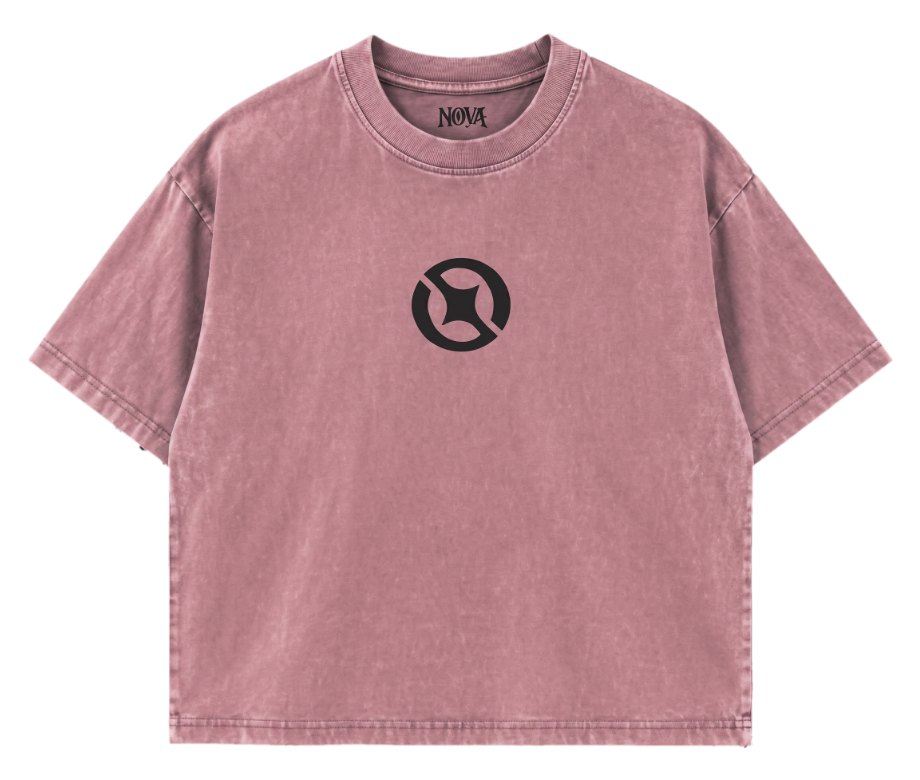
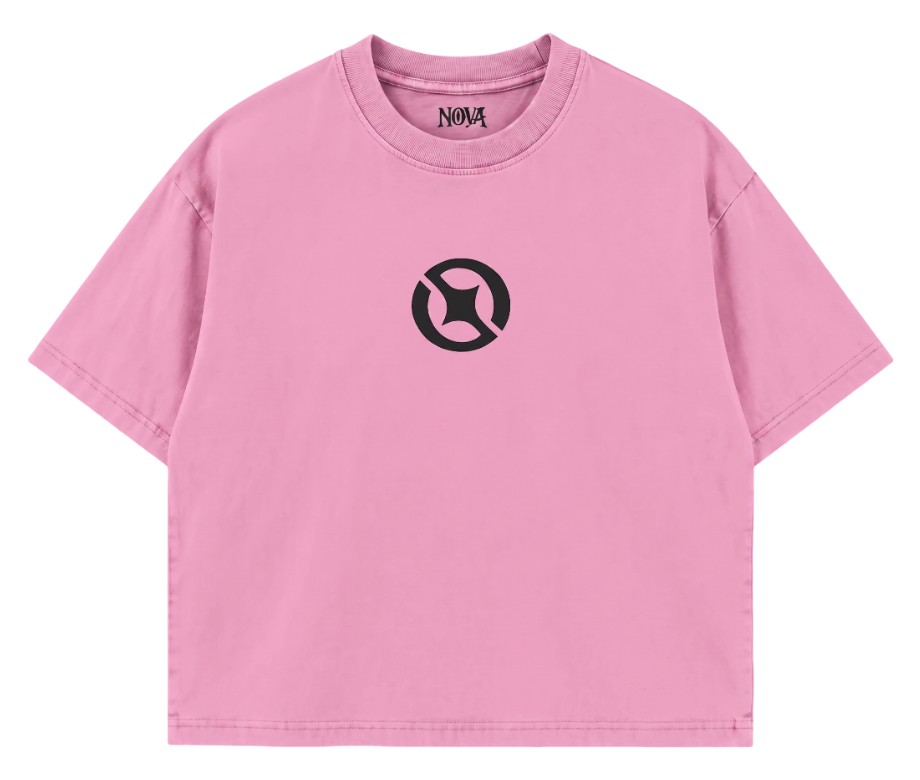
La camiseta pasa a gris, fotos nuevas y las cuatro prendas del Drop 02
El color negro ya no existe en la web: la camiseta es gris. Cambia el
nombre en la ficha, el botón del selector con su círculo sacado de la
propia foto, los textos alternativos, la opción de la caja de la preventa
y la lista que valida el pago en el servidor.

Fotos nuevas de las dos camisetas, recortadas sobre blanco a 920x780 y a
la misma escala que las de antes, para que el visor no dé saltos al girar
ni al cambiar de color. La espalda gris sale de la captura de móvil: se
recorta la banda de la foto y con ella se va la marca de agua, que caía en
las barras negras.

El Drop 02 deja de ser sólo la sudadera. Debajo van la camisa, los
tirantes, los vaqueros y el short, en una rejilla de dos columnas en el
móvil y cuatro en el escritorio. Las ocho fotos van sobre el mismo negro
exacto de la sudadera, así que no se recorta ningún rectángulo contra el
fondo de la sección.

Y fuera los rótulos de Delante y Detrás de las seis prendas: el reverso se
ve girándolas, no hace falta anunciarlo. La cara sigue diciéndose en el
aria-label del visor, que es donde hace falta.

diff --git a/index.html b/index.html
@@ -409,6 +409,23 @@ h1.titulo{margin:0;line-height:0}
 .oscuro .ficha{border-top-color:var(--noche-linea);color:var(--noche-texto)}
 .oscuro .ficha i{color:var(--acento-noche)}
 
+/* ---------- el resto de prendas del Drop 02 ----------
+   Una rejilla que se acomoda sola: cuatro en fila cuando cabe, dos cuando
+   no. Cada una gira igual que la sudadera, pero sin flechas: la tarjeta es
+   pequeña y el propio recorte ya invita a pulsarla. */
+.prendas{
+    display:grid;grid-template-columns:repeat(2,1fr);
+    gap:clamp(14px,3.2vw,30px);
+    max-width:1000px;margin:clamp(40px,7vh,68px) auto 0;
+}
+@media(min-width:760px){.prendas{grid-template-columns:repeat(4,1fr)}}
+.prenda{margin:0}
+.prenda .visor{max-width:none;aspect-ratio:1}
+.prenda .ficha{
+    max-width:none;margin-top:11px;padding-top:10px;
+    gap:8px;font-size:9px;letter-spacing:.16em;
+}
+
 /* ---------- las coordenadas ---------- */
 .coords{padding-top:clamp(8px,2vh,20px)}
 .coord-foto{
@@ -514,10 +531,10 @@ footer{
             </button>
 
             <button type="button" class="visor" id="visor">
-                <img class="foto activa" data-color="negro" data-cara="delante" src="negro-delante.jpg"
-                     width="920" height="780" alt="Camiseta NOVA Supply Clothing negra por delante, con el emblema en el pecho">
-                <img class="foto" data-color="negro" data-cara="detras" src="negro-detras.jpg"
-                     width="920" height="780" alt="Camiseta NOVA Supply Clothing negra por detrás, con NOVA en grande">
+                <img class="foto activa" data-color="gris" data-cara="delante" src="gris-delante.jpg"
+                     width="920" height="780" alt="Camiseta NOVA Supply Clothing gris por delante, con el emblema en el pecho">
+                <img class="foto" data-color="gris" data-cara="detras" src="gris-detras.jpg"
+                     width="920" height="780" alt="Camiseta NOVA Supply Clothing gris por detrás, con NOVA en grande">
                 <img class="foto" data-color="rosa" data-cara="delante" src="rosa-delante.jpg"
                      width="920" height="780" alt="Camiseta NOVA Supply Clothing rosa por delante, con el emblema en el pecho">
                 <img class="foto" data-color="rosa" data-cara="detras" src="rosa-detras.jpg"
@@ -529,14 +546,14 @@ footer{
             </button>
         </div>
 
-        <p class="ficha" aria-live="polite"><span id="nombre-color">Negro lavado</span><i id="nombre-cara">Delante</i></p>
+        <p class="ficha" aria-live="polite"><span id="nombre-color">Gris lavado</span></p>
 
         <div class="selector" id="colores" role="group" aria-label="Color de la camiseta">
-            <button type="button" class="swatch" data-color="negro" aria-pressed="true">
-                <span class="punto" style="--c:#2b2b2d"></span>Negro
+            <button type="button" class="swatch" data-color="gris" aria-pressed="true">
+                <span class="punto" style="--c:#7b7676"></span>Gris
             </button>
             <button type="button" class="swatch" data-color="rosa" aria-pressed="false">
-                <span class="punto" style="--c:#c98f95"></span>Rosa
+                <span class="punto" style="--c:#e79aba"></span>Rosa
             </button>
         </div>
     </section>
@@ -570,8 +587,8 @@ footer{
                 <fieldset>
                     <legend>Color</legend>
                     <div class="opciones">
-                        <label class="opcion"><input type="radio" name="color" value="negro" required><span><i class="punto" style="--c:#2b2b2d"></i>Negro</span></label>
-                        <label class="opcion"><input type="radio" name="color" value="rosa"><span><i class="punto" style="--c:#c98f95"></i>Rosa</span></label>
+                        <label class="opcion"><input type="radio" name="color" value="gris" required><span><i class="punto" style="--c:#7b7676"></i>Gris</span></label>
+                        <label class="opcion"><input type="radio" name="color" value="rosa"><span><i class="punto" style="--c:#e79aba"></i>Rosa</span></label>
                     </div>
                 </fieldset>
 
@@ -626,7 +643,51 @@ footer{
         </button>
     </div>
 
-    <p class="ficha" aria-live="polite"><span>Sudadera</span><i id="cara-sudadera">Delante</i></p>
+    <p class="ficha"><span>Sudadera</span></p>
+
+    <!-- El resto del drop. Cada prenda es el mismo visor de siempre, sin
+         flechas: se le da la vuelta pulsando encima (o pasando el ratón). -->
+    <div class="prendas">
+        <article class="prenda" id="p-camisa">
+            <button type="button" class="visor">
+                <img class="foto activa" data-cara="delante" src="d2-camisa-delante.jpg" width="560" height="560" loading="lazy"
+                     alt="Camisa de NOVA Supply Clothing, camisa de manga corta gris con el emblema en el pecho">
+                <img class="foto" data-cara="detras" src="d2-camisa-detras.jpg" width="560" height="560" loading="lazy"
+                     alt="Camisa de NOVA Supply Clothing, camisa de manga corta gris con NOVA en grande en la espalda">
+            </button>
+            <p class="ficha"><span>Camisa</span></p>
+        </article>
+
+        <article class="prenda" id="p-tirantes">
+            <button type="button" class="visor">
+                <img class="foto activa" data-cara="delante" src="d2-tirantes-delante.jpg" width="560" height="560" loading="lazy"
+                     alt="Camiseta de tirantes de NOVA Supply Clothing, camiseta de tirantes blanca con el emblema en el pecho">
+                <img class="foto" data-cara="detras" src="d2-tirantes-detras.jpg" width="560" height="560" loading="lazy"
+                     alt="Camiseta de tirantes de NOVA Supply Clothing, camiseta de tirantes blanca lisa por detrás">
+            </button>
+            <p class="ficha"><span>Tirantes</span></p>
+        </article>
+
+        <article class="prenda" id="p-vaqueros">
+            <button type="button" class="visor">
+                <img class="foto activa" data-cara="delante" src="d2-vaqueros-delante.jpg" width="560" height="560" loading="lazy"
+                     alt="Vaqueros cortos de NOVA Supply Clothing, pantalón vaquero corto claro por delante">
+                <img class="foto" data-cara="detras" src="d2-vaqueros-detras.jpg" width="560" height="560" loading="lazy"
+                     alt="Vaqueros cortos de NOVA Supply Clothing, pantalón vaquero corto claro con el emblema en el bolsillo">
+            </button>
+            <p class="ficha"><span>Vaqueros</span></p>
+        </article>
+
+        <article class="prenda" id="p-short">
+            <button type="button" class="visor">
+                <img class="foto activa" data-cara="delante" src="d2-short-delante.jpg" width="560" height="560" loading="lazy"
+                     alt="Pantalón corto de NOVA Supply Clothing, pantalón corto beige con NOVA en la pernera">
+                <img class="foto" data-cara="detras" src="d2-short-detras.jpg" width="560" height="560" loading="lazy"
+                     alt="Pantalón corto de NOVA Supply Clothing, pantalón corto beige con el emblema en el bolsillo">
+            </button>
+            <p class="ficha"><span>Short</span></p>
+        </article>
+    </div>
 
     <div class="adentro">
         <form class="aviso" id="aviso" novalidate>
@@ -763,11 +824,15 @@ function montarVisor(cfg){
 
 montarVisor({
     caja:'camiseta', prenda:'Camiseta',
-    cara:'nombre-cara', color:'nombre-color', selector:'colores',
-    colorInicial:'negro', colores:{ negro:'Negro lavado', rosa:'Rosa lavado' }
+    color:'nombre-color', selector:'colores',
+    colorInicial:'gris', colores:{ gris:'Gris lavado', rosa:'Rosa lavado' }
 });
 
-montarVisor({ caja:'sudadera', prenda:'Sudadera', cara:'cara-sudadera' });
+montarVisor({ caja:'sudadera', prenda:'Sudadera' });
+
+[['camisa','Camisa'], ['tirantes','Camiseta de tirantes'],
+ ['vaqueros','Vaqueros cortos'], ['short','Pantalón corto']]
+.forEach(function(p){ montarVisor({ caja:'p-' + p[0], prenda:p[1] }); });
 
 /* ---------- la vuelta del pago ----------
    El botón de la caja es un enlace normal a /api/preventa, que redirige a

diff --git a/api/preventa.js b/api/preventa.js
@@ -30,11 +30,11 @@
       o a /?pago=no y la web le da el mensaje que toca.
 
    LA TALLA Y EL COLOR se eligen en la web, antes de venir aquí, y llegan
-   en la dirección (?talla=M&color=negro). Van a dos sitios:
+   en la dirección (?talla=M&color=gris). Van a dos sitios:
 
      1) a Stripe, pegados al cobro —
         · con enlace de pago → en «Referencia del cliente», como
-          talla-M_color-negro_ref-a3f9c1
+          talla-M_color-gris_ref-a3f9c1
         · con clave + precio → en los metadatos, cada uno en su campo
      2) a la base de datos, para poder contarlos. Ver LA LIBRETA, más abajo.
 
@@ -53,9 +53,9 @@ const SESIONES = 'https://api.stripe.com/v1/checkout/sessions';
 // Lo que se puede pedir. Si algún día cambian las tallas o los colores,
 // hay que tocarlo en los dos sitios: aquí y en el formulario de index.html.
 const TALLAS = ['S', 'M', 'L', 'XL', 'XXL'];
-const COLORES = ['negro', 'rosa'];
+const COLORES = ['gris', 'rosa'];
 
-// Talla y color llegan en la propia dirección (?talla=M&color=negro), que
+// Talla y color llegan en la propia dirección (?talla=M&color=gris), que
 // es lo que manda el formulario de la caja. No nos fiamos de lo que venga:
 // si no está en las listas, no vale.
 function eleccion(req) {
